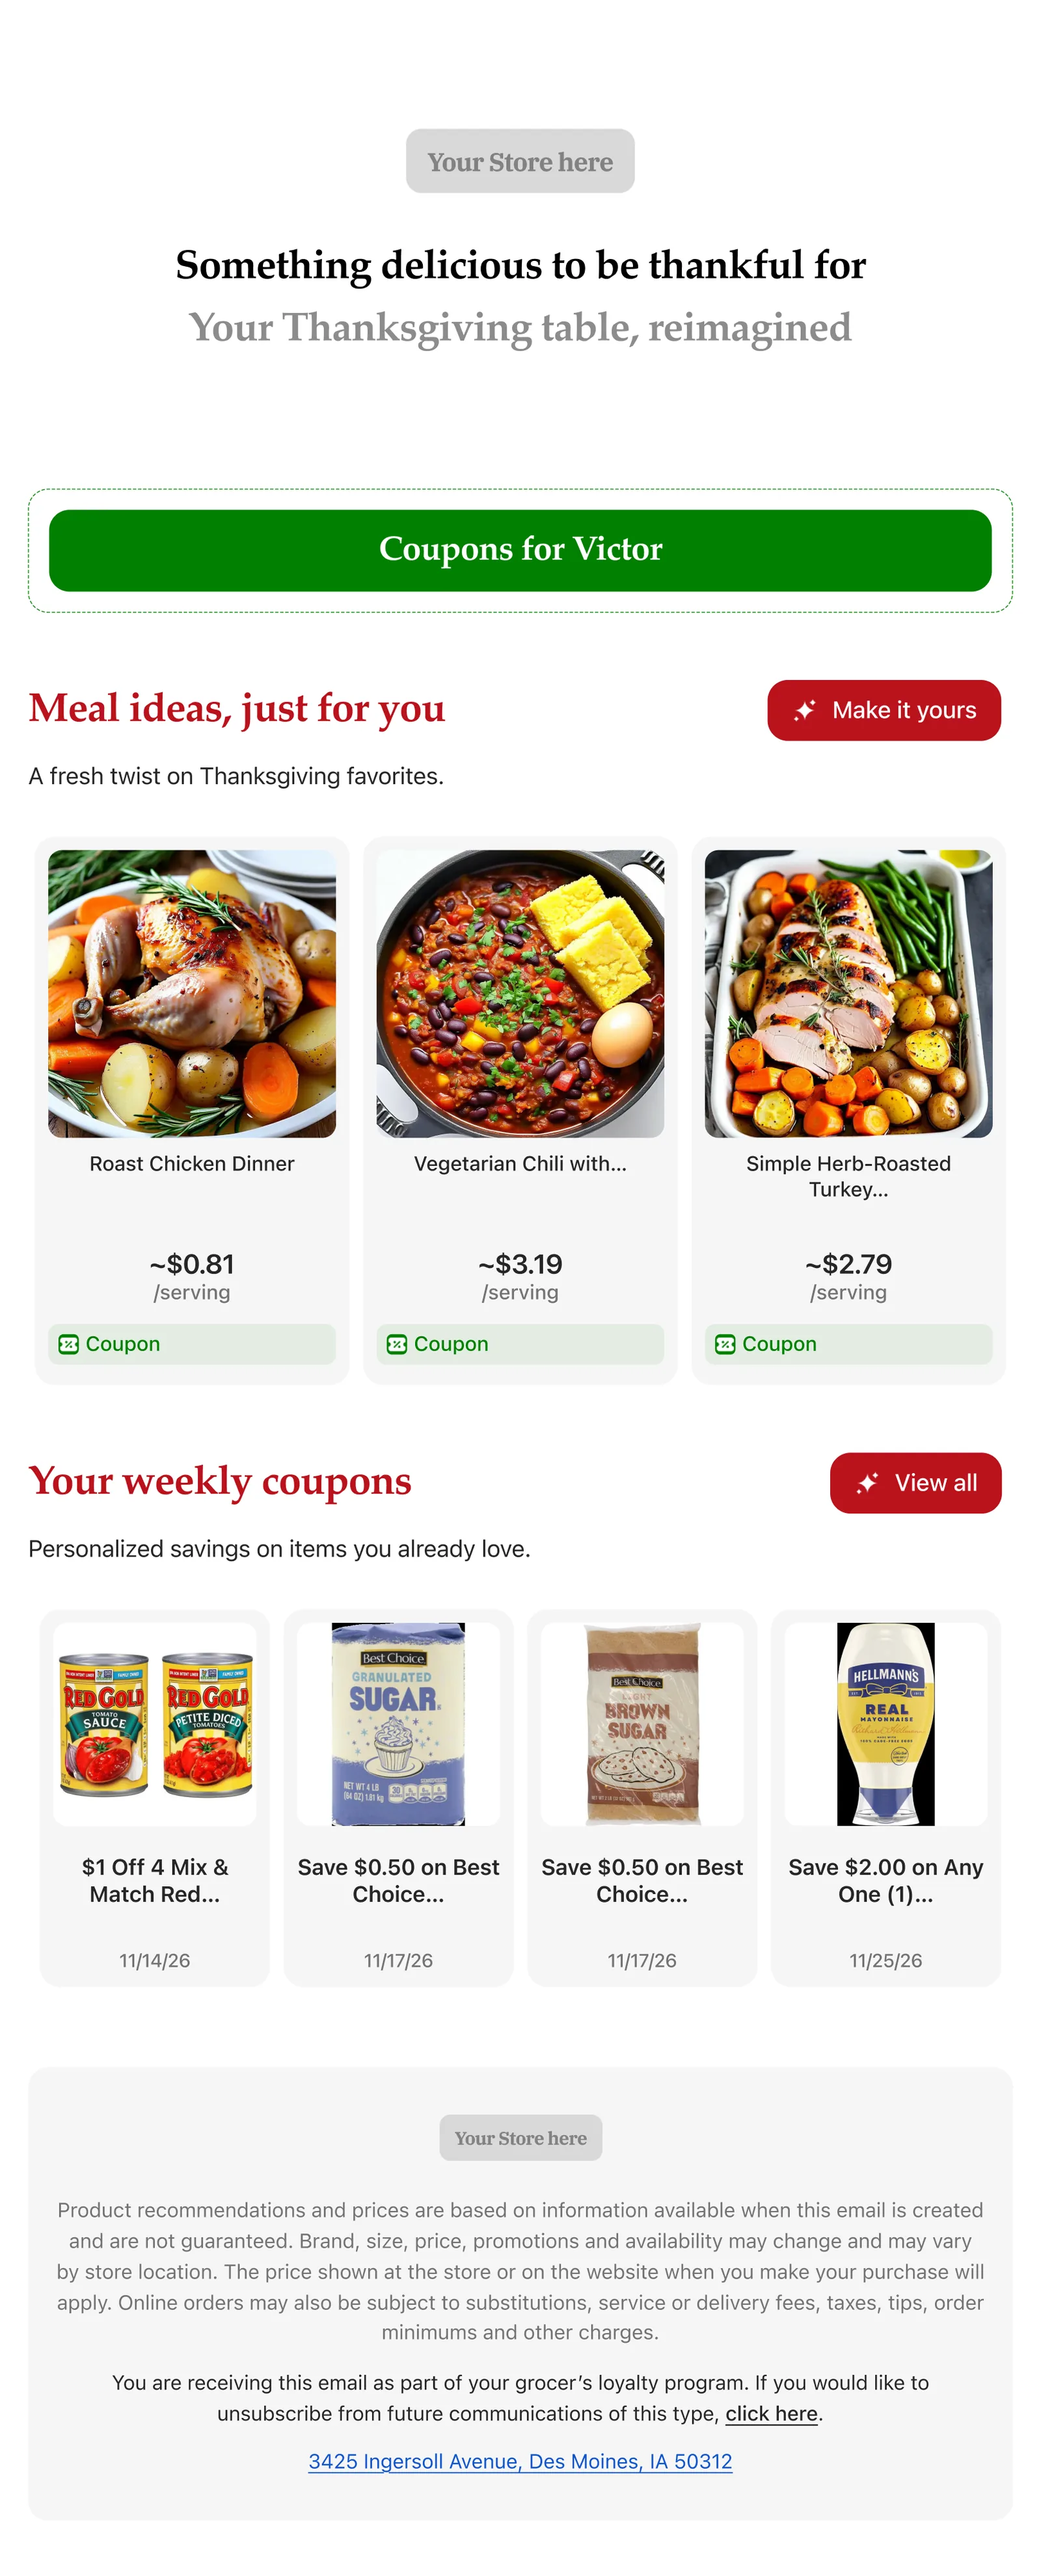
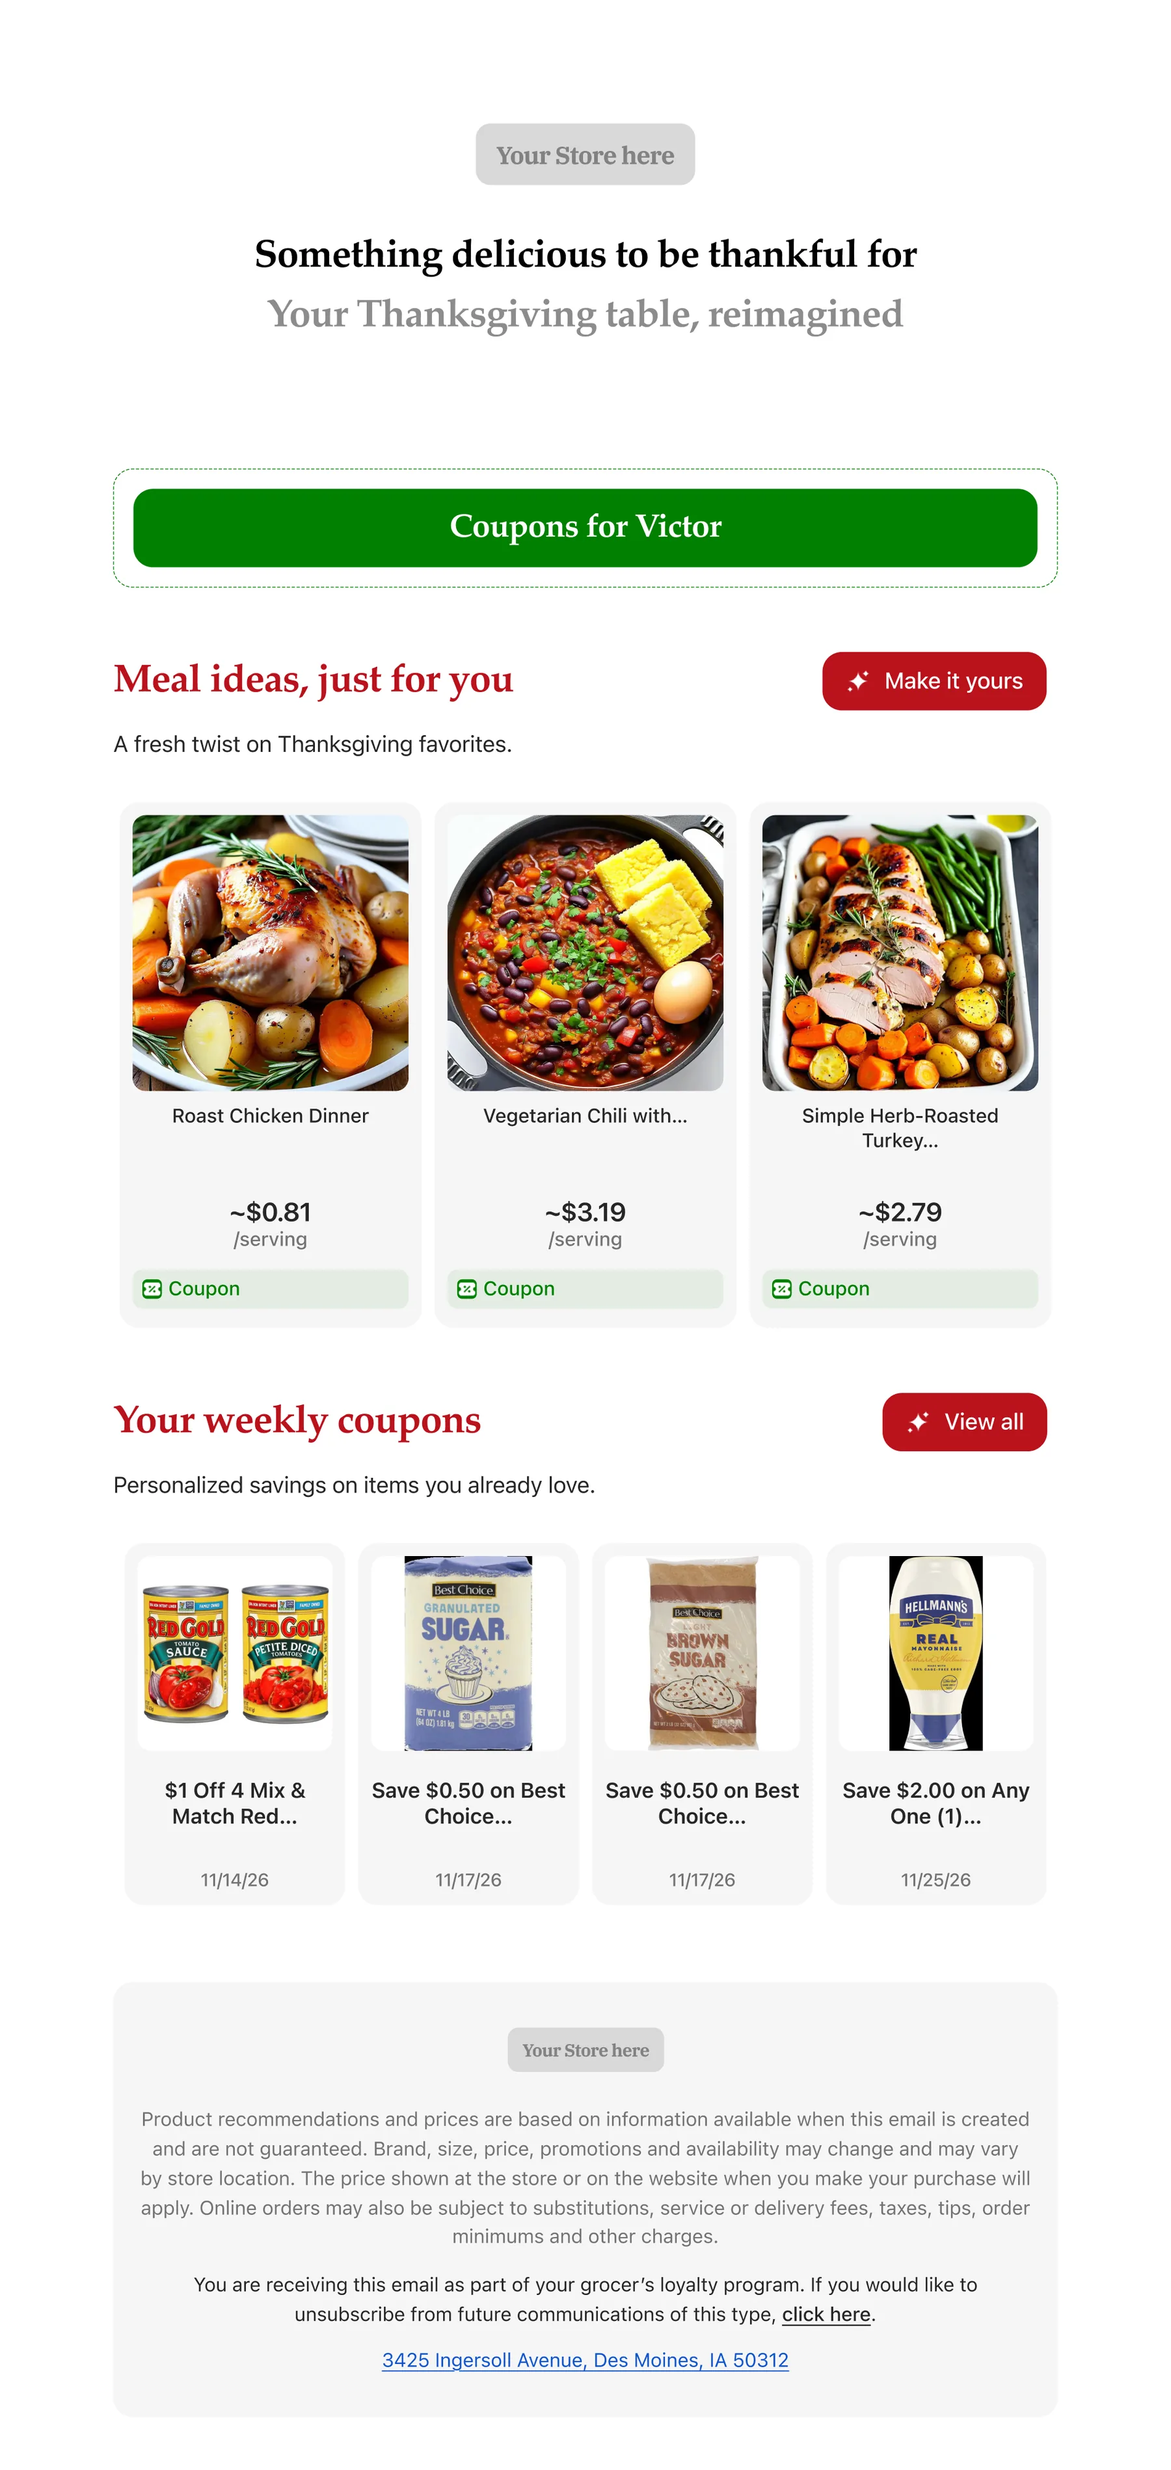
Products: calmer, consistent product visuals
Browser windows for Meal Planner, Picks to Inbox and Smart Store and two
upright phones for Chat to Shop, all rising from the panel's bottom edge.
Long pages take a slow guided scroll with pauses. Removed the 3D tilt,
skew, pointer tracking, scroll-linked scrub and zoom (pf-visuals.js).
Re-cropped the inbox and meal images so their content fills the window.

diff --git a/products/products.css b/products/products.css
@@ -2891,94 +2891,37 @@
     .pf-grid { grid-template-columns: 1fr; row-gap: 2rem; }
 }
 
-/* ============ PF VISUAL: VERTICAL AUTO-SCROLL ============
-   Two identical items stacked; the track moves up by 50% and loops seamlessly.
-   The panel crops anything outside it. */
-/* Window fills the panel and fades the card in/out at the top and bottom edges */
-.pf-scroll-window {
+/* ============ PF VISUALS ============
+   Every product shows a device rising from the bottom edge of its panel:
+   a browser window (Meal Planner, Picks to Inbox, Smart Store) or two phones
+   (Chat to Shop). Motion stays calm: a staggered rise on reveal, and on the
+   long pages a slow guided scroll that pauses on each part of the page. */
+.pf-visual--window,
+.pf-visual--phones {
+    --pf-inset-top: 7%;
+}
+
+.pf-browser {
     position: absolute;
-    inset: 0;
-    display: flex;
-    justify-content: center;
-    -webkit-mask-image: linear-gradient(to bottom, transparent 0%, #000 16%, #000 84%, transparent 100%);
-    mask-image: linear-gradient(to bottom, transparent 0%, #000 16%, #000 84%, transparent 100%);
-}
-
-/* Light blur on the same edges, strongest at the border and easing off inward */
-.pf-scroll-blur {
-    position: absolute;
-    left: 0;
-    right: 0;
-    height: 18%;
-    z-index: 1;
-    pointer-events: none;
-    -webkit-backdrop-filter: blur(2.5px);
-    backdrop-filter: blur(2.5px);
-}
-
-.pf-scroll-blur--top {
-    top: 0;
-    -webkit-mask-image: linear-gradient(to bottom, #000 0%, rgba(0,0,0,0.7) 30%, rgba(0,0,0,0.35) 60%, rgba(0,0,0,0.1) 85%, transparent 100%);
-    mask-image: linear-gradient(to bottom, #000 0%, rgba(0,0,0,0.7) 30%, rgba(0,0,0,0.35) 60%, rgba(0,0,0,0.1) 85%, transparent 100%);
-}
-
-.pf-scroll-blur--bottom {
+    left: 50%;
+    top: var(--pf-inset-top);
     bottom: 0;
-    -webkit-mask-image: linear-gradient(to top, #000 0%, rgba(0,0,0,0.7) 30%, rgba(0,0,0,0.35) 60%, rgba(0,0,0,0.1) 85%, transparent 100%);
-    mask-image: linear-gradient(to top, #000 0%, rgba(0,0,0,0.7) 30%, rgba(0,0,0,0.35) 60%, rgba(0,0,0,0.1) 85%, transparent 100%);
-}
-
-.pf-scroll-track {
-    width: clamp(280px, 84%, 1000px);
-    align-self: flex-start;
-    flex-shrink: 0;
+    width: clamp(280px, 84%, 1040px);
     display: flex;
     flex-direction: column;
-    animation: pf-scroll-up 26s linear infinite;
-    will-change: transform;
-}
-
-/* Gap lives inside each item so both halves of the track are identical */
-.pf-scroll-item {
-    padding-top: 3rem;
-}
-
-.pf-scroll-item img {
-    display: block;
-    width: 100%;
-    height: auto;
-    border-radius: 14px;
     background: var(--white);
-    box-shadow:
-        0 1px 2px rgba(0, 0, 0, 0.12),
-        0 24px 48px -16px rgba(0, 0, 0, 0.45);
-}
-
-@keyframes pf-scroll-up {
-    from { transform: translateY(0); }
-    to   { transform: translateY(-50%); }
-}
-
-@media (max-width: 860px) {
-    .pf-scroll-track { width: 86%; }
-    .pf-scroll-item { padding-top: 1.5rem; }
-}
-
-@media (prefers-reduced-motion: reduce) {
-    .pf-scroll-track { animation: none; }
-}
-
-/* ============ PF VISUALS: SHARED BROWSER FRAME ============ */
-.pf-browser {
-    background: var(--white);
-    border-radius: 14px;
+    border-radius: 14px 14px 0 0;
     overflow: hidden;
     box-shadow:
         0 1px 2px rgba(0, 0, 0, 0.12),
-        0 30px 60px -20px rgba(0, 0, 0, 0.5);
+        0 30px 60px -20px rgba(0, 0, 0, 0.45);
+    transform: translateX(-50%) translateY(40px);
+    opacity: 0;
+    transition: transform 0.9s cubic-bezier(0.2, 0.8, 0.2, 1) 0.15s, opacity 0.6s ease 0.15s;
 }
 
 .pf-browser-bar {
+    flex-shrink: 0;
     display: flex;
     gap: 6px;
     align-items: center;
@@ -2995,131 +2938,99 @@
     background: #D5D8DE;
 }
 
-/* ============ MEAL PLANNER: SCROLL-LINKED PAGE ============
-   Frame bleeds off the bottom of the panel; the page inside moves by
-   --pf-shift (px, set by pf-visuals.js from scroll position). */
-.pf-scrub-frame {
-    position: absolute;
-    left: 50%;
-    top: 8%;
-    width: clamp(260px, 62%, 760px);
-    height: 100%;
-    transform: translateX(-50%);
-}
-
-.pf-scrub-viewport {
-    height: calc(100% - 30px);
+/* Size container: lets the tour move by exactly (page height - window height) */
+.pf-browser-viewport {
+    position: relative;
+    flex: 1;
+    min-height: 0;
     overflow: hidden;
+    container-type: size;
 }
 
-.pf-scrub-img {
+.pf-browser-viewport img {
     display: block;
     width: 100%;
     height: auto;
-    transform: translateY(calc(var(--pf-shift, 0px) * -1));
+}
+
+/* Guided tour: glide, pause, glide, pause... then ease back to the top.
+   --pf-end is the full travel; each stop is a fraction of it. */
+.pf-tour {
+    --pf-end: calc(-100% + 100cqh);
+    animation: pf-tour 28s ease-in-out infinite;
     will-change: transform;
 }
 
-/* ============ CHAT TO SHOP: TWO PHONES IN 3D ============
-   The tilt follows the pointer (--pf-tx/--pf-ty from pf-visuals.js); the float
-   uses the separate `translate` property so it composes with the 3D transform. */
+.pf-tour--inbox {
+    animation-duration: 30s;
+}
+
+@keyframes pf-tour {
+    0%, 9%    { transform: translateY(0); }
+    21%, 32%  { transform: translateY(calc(var(--pf-end) * 0.34)); }
+    44%, 55%  { transform: translateY(calc(var(--pf-end) * 0.67)); }
+    67%, 82%  { transform: translateY(var(--pf-end)); }
+    96%, 100% { transform: translateY(0); }
+}
+
+/* Phones */
 .pf-phones {
     position: absolute;
-    inset: 0;
+    left: 0;
+    right: 0;
+    top: var(--pf-inset-top);
+    bottom: 0;
     display: flex;
     justify-content: center;
     align-items: flex-start;
-    gap: 3.5%;
-    padding-top: 6%;
-    perspective: 1600px;
+    gap: 4%;
 }
 
 .pf-phone {
-    width: clamp(140px, 23%, 270px);
-    padding: 8px;
+    width: clamp(150px, 27%, 310px);
+    padding: 9px;
     background: #0B1220;
-    border-radius: 40px;
+    border-radius: 44px;
     box-shadow:
         inset 0 0 0 1.5px rgba(255, 255, 255, 0.12),
-        0 40px 70px -25px rgba(0, 0, 0, 0.6);
-    transform-style: preserve-3d;
-    transition: transform 0.5s cubic-bezier(0.2, 0.8, 0.2, 1);
-    animation: pf-float 6s ease-in-out infinite;
+        0 30px 60px -20px rgba(0, 0, 0, 0.5);
+    transform: translateY(40px);
+    opacity: 0;
+    transition: transform 0.9s cubic-bezier(0.2, 0.8, 0.2, 1) 0.15s, opacity 0.6s ease 0.15s;
+}
+
+.pf-phone + .pf-phone {
+    transition-delay: 0.3s;
 }
 
 .pf-phone img {
     display: block;
     width: 100%;
     height: auto;
-    border-radius: 32px;
+    border-radius: 35px;
 }
 
-.pf-phone--a {
-    transform:
-        rotateY(calc(16deg + var(--pf-tx, 0) * 10deg))
-        rotateX(calc(8deg - var(--pf-ty, 0) * 8deg))
-        rotateZ(-4deg)
-        skewY(-3deg);
+/* Rise in once the panel is revealed */
+.pf-visual.visible .pf-browser {
+    transform: translateX(-50%);
+    opacity: 1;
 }
 
-.pf-phone--b {
-    margin-top: 9%;
-    animation-delay: -3s;
-    transform:
-        rotateY(calc(-16deg + var(--pf-tx, 0) * 10deg))
-        rotateX(calc(8deg - var(--pf-ty, 0) * 8deg))
-        rotateZ(4deg)
-        skewY(3deg);
-}
-
-@keyframes pf-float {
-    0%, 100% { translate: 0 -10px; }
-    50%      { translate: 0 10px; }
-}
-
-/* ============ SMART STORE: LANDING WINDOW + FOCUS ZOOM ============
-   --pf-enter (0..1, from pf-visuals.js) flattens the window as it scrolls in;
-   the screenshot then loops a slow zoom into the AI panel on the left. */
-.pf-store-frame {
-    position: absolute;
-    left: 50%;
-    top: 7%;
-    width: clamp(280px, 86%, 1040px);
-    transform-origin: 50% 100%;
-    transform:
-        translateX(-50%)
-        perspective(1800px)
-        rotateX(calc((1 - var(--pf-enter, 1)) * 30deg))
-        scale(calc(0.88 + var(--pf-enter, 1) * 0.12));
-}
-
-.pf-store-viewport {
-    overflow: hidden;
-}
-
-.pf-store-img {
-    display: block;
-    width: 100%;
-    height: auto;
-    transform-origin: 0% 58%;
-    animation: pf-store-focus 16s ease-in-out infinite;
-}
-
-@keyframes pf-store-focus {
-    0%, 22%   { transform: scale(1); }
-    40%, 62%  { transform: scale(1.7); }
-    80%, 100% { transform: scale(1); }
+.pf-visual.visible .pf-phone {
+    transform: none;
+    opacity: 1;
 }
 
 @media (max-width: 860px) {
-    .pf-scrub-frame { width: 84%; top: 6%; }
-    .pf-phone { width: 40%; border-radius: 28px; padding: 6px; }
+    .pf-browser { width: 90%; border-radius: 10px 10px 0 0; }
+    .pf-browser-bar { height: 22px; padding: 0 10px; }
+    .pf-browser-bar span { width: 7px; height: 7px; }
+    .pf-phones { gap: 3%; }
+    .pf-phone { width: 42%; padding: 6px; border-radius: 28px; }
     .pf-phone img { border-radius: 22px; }
-    .pf-store-frame { width: 150%; left: 8%; transform-origin: 0 100%; transform: none; }
-    .pf-browser-bar { height: 22px; }
-    .pf-scrub-viewport { height: calc(100% - 22px); }
 }
 
 @media (prefers-reduced-motion: reduce) {
-    .pf-phone, .pf-store-img { animation: none; }
+    .pf-tour { animation: none; }
+    .pf-browser, .pf-phone { transition: none; }
 }

diff --git a/products/index.html b/products/index.html
@@ -299,12 +299,12 @@
                     <p class="groceryaisle-feature-desc">On-demand meal planning on your site, built around what each shopper needs.</p>
                 </div>
 
-                <!-- Scroll-linked: the recipe page scrolls inside its frame as the visitor scrolls the site -->
-                <div class="pf-visual pf-visual--scrub reveal" data-pf-scrub>
-                    <div class="pf-browser pf-scrub-frame">
+                <!-- Browser window rising from the bottom of the panel; the page inside takes a slow guided tour -->
+                <div class="pf-visual pf-visual--window reveal">
+                    <div class="pf-browser">
                         <div class="pf-browser-bar" aria-hidden="true"><span></span><span></span><span></span></div>
-                        <div class="pf-scrub-viewport">
-                            <img class="pf-scrub-img" src="/content/products/meal-planner-recipe.webp" alt="AI Meal Planner recipe page with health score, nutrition facts and substitutions" width="1400" height="1762" loading="lazy" decoding="async">
+                        <div class="pf-browser-viewport">
+                            <img class="pf-tour pf-tour--meal" src="/content/products/meal-planner-recipe.webp" alt="AI Meal Planner recipe page with health score, nutrition facts and substitutions" width="1500" height="3370" loading="lazy" decoding="async">
                         </div>
                     </div>
                 </div>
@@ -372,21 +372,14 @@
                     <p class="groceryaisle-feature-desc">Personalized meal plans, replenishment reminders, and offers delivered straight to shoppers’ inboxes, automatically.</p>
                 </div>
 
-                <!-- Vertical loop: the email is repeated twice and the track slides up by
-                     half its height, so the second copy lands exactly where the first began. -->
-                <div class="pf-visual pf-visual--scroll reveal">
-                    <div class="pf-scroll-window">
-                        <div class="pf-scroll-track">
-                            <div class="pf-scroll-item">
-                                <img src="/content/products/picks-to-inbox-email.webp" alt="Example AI Picks to Inbox email with personalized Thanksgiving meal ideas and weekly coupons" width="1600" height="3959" loading="lazy" decoding="async">
-                            </div>
-                            <div class="pf-scroll-item" aria-hidden="true">
-                                <img src="/content/products/picks-to-inbox-email.webp" alt="" width="1600" height="3959" loading="lazy" decoding="async">
-                            </div>
+                <!-- Browser window rising from the bottom of the panel; the page inside takes a slow guided tour -->
+                <div class="pf-visual pf-visual--window reveal">
+                    <div class="pf-browser">
+                        <div class="pf-browser-bar" aria-hidden="true"><span></span><span></span><span></span></div>
+                        <div class="pf-browser-viewport">
+                            <img class="pf-tour pf-tour--inbox" src="/content/products/picks-to-inbox-email.webp" alt="Example AI Picks to Inbox email with personalized Thanksgiving meal ideas and weekly coupons" width="1800" height="3797" loading="lazy" decoding="async">
                         </div>
                     </div>
-                    <div class="pf-scroll-blur pf-scroll-blur--top" aria-hidden="true"></div>
-                    <div class="pf-scroll-blur pf-scroll-blur--bottom" aria-hidden="true"></div>
                 </div>
 
                 <div class="pf-block reveal">
@@ -445,13 +438,13 @@
                     <p class="groceryaisle-feature-desc">A conversational AI assistant that helps shoppers search, build a basket, and shop around their own preferences and allergies.</p>
                 </div>
 
-                <!-- Two phones in 3D: tilted, floating out of sync, leaning toward the pointer -->
-                <div class="pf-visual pf-visual--phones reveal" data-pf-tilt>
+                <!-- Two phones side by side, rising from the bottom of the panel -->
+                <div class="pf-visual pf-visual--phones reveal">
                     <div class="pf-phones">
-                        <div class="pf-phone pf-phone--a">
+                        <div class="pf-phone">
                             <img src="/content/products/chat-to-shop-1.webp" alt="AI Chat to Shop recommending a meal with main ingredients" width="760" height="1516" loading="lazy" decoding="async">
                         </div>
-                        <div class="pf-phone pf-phone--b">
+                        <div class="pf-phone">
                             <img src="/content/products/chat-to-shop-2.webp" alt="AI Chat to Shop showing what's trending at the store with add-to-cart buttons" width="760" height="1517" loading="lazy" decoding="async">
                         </div>
                     </div>
@@ -508,12 +501,12 @@
                     <p class="groceryaisle-feature-desc">A dynamic, self-managed digital storefront built for grocers who don’t have the time or team to keep their site current.</p>
                 </div>
 
-                <!-- Browser window that lands flat as it scrolls in, then slowly zooms into the AI panel -->
-                <div class="pf-visual pf-visual--store reveal" data-pf-land>
-                    <div class="pf-browser pf-store-frame">
+                <!-- Browser window rising from the bottom of the panel, storefront shown in full -->
+                <div class="pf-visual pf-visual--window reveal">
+                    <div class="pf-browser">
                         <div class="pf-browser-bar" aria-hidden="true"><span></span><span></span><span></span></div>
-                        <div class="pf-store-viewport">
-                            <img class="pf-store-img" src="/content/products/smart-store-storefront.webp" alt="AI Smart Store storefront with personalized meal ideas panel and sale products" width="2400" height="1485" loading="lazy" decoding="async">
+                        <div class="pf-browser-viewport">
+                            <img src="/content/products/smart-store-storefront.webp" alt="AI Smart Store storefront with personalized meal ideas panel and sale products" width="2400" height="1485" loading="lazy" decoding="async">
                         </div>
                     </div>
                 </div>
@@ -1024,7 +1017,6 @@
 
         });
     </script>
-    <script src="/products/pf-visuals.js" defer></script>
 </body>
 
 </html>
